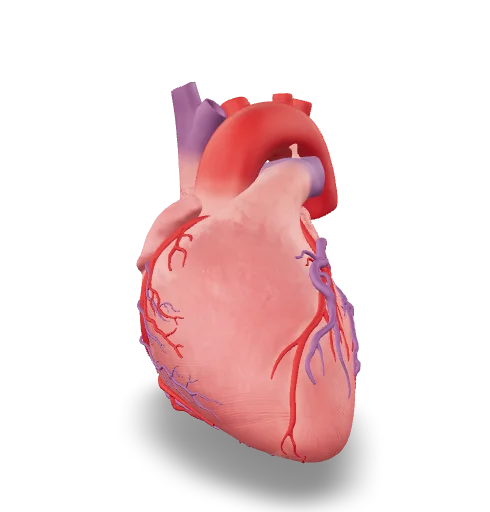
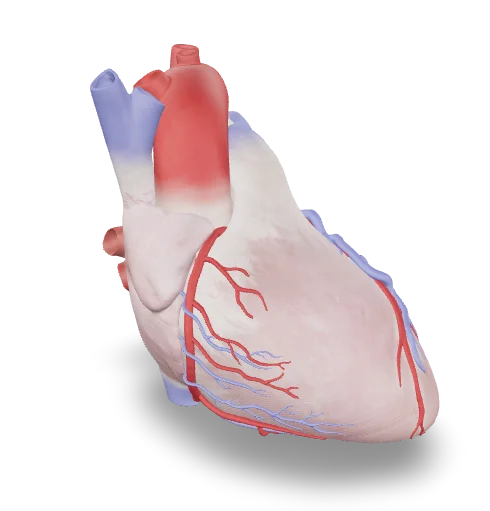
poster updated

diff --git a/lungs/index.html b/lungs/index.html
@@ -15,8 +15,7 @@
   <!-- <model-viewer> HTML element -->
 
   <model-viewer id="mv1" src="../glbs/anatomy_of_the_airways.glb" ar ar-modes="webxr scene-viewer quick-look"
-    camera-controls poster="poster.webp" shadow-intensity="1" camera-orbit="-4.926deg 84.38deg 0.537m"
-    field-of-view="30deg" camera-target="0.14m -497.4m 43.88m">
+    camera-controls poster="poster.webp" shadow-intensity="1"camera-target="0.14m -497.4m 43.95m" camera-orbit="-4.926deg 84.38deg 0.537m" field-of-view="30deg">
 
     <button class="Hotspot" data-audio="myAudio1" slot="hotspot-1" data-target="0.15m -497.32m 43.89m" data-orbit="40.41deg 71.58deg 0.3791m"
     data-surface="2 0 243 12099 12100 0.481 0.025 0.494" data-visibility-attribute="visible">

diff --git a/human_heart/index.html b/human_heart/index.html
@@ -15,8 +15,7 @@
   
   <!-- <model-viewer> HTML element -->
     <model-viewer id="mv1" src="../glbs/cardiac_anatomy_external_view_of_human_heart.glb" ar
-    ar-modes="webxr scene-viewer quick-look" camera-controls poster="poster.webp" shadow-intensity="1"
-    camera-orbit="-41.13deg 55.33deg 2.741m" field-of-view="24.45deg">
+    ar-modes="webxr scene-viewer quick-look" camera-controls poster="poster.webp" shadow-intensity="1" camera-target="0.1296m 0.03m 0.203m" camera-orbit="-41.13deg 55.33deg 2.995m" field-of-view="28.88deg">
 
 
     <button class="Hotspot" data-audio="myAudio1" slot="hotspot-1" data-orbit="-41.51deg 58.47deg 2.741m" field-of-view="24.45deg"

diff --git a/blood_vessel2/index.html b/blood_vessel2/index.html
@@ -14,8 +14,7 @@
 <body>
   <!-- <model-viewer> HTML element -->
   <model-viewer id="mv1" src="../glbs/blood-vessel-anatomy.glb" ar ar-modes="webxr scene-viewer quick-look"
-    camera-controls poster="poster.webp" shadow-intensity="1" camera-orbit="-41.13deg 55.33deg 31.29m"
-    field-of-view="28.54deg" camera-target="-0.66m -0.2579m 5.456m" field-of-view="24.45deg">
+    camera-controls poster="poster.webp" shadow-intensity="1"camera-target="-0.66m -0.2579m 5.456m" camera-orbit="-41.13deg 55.33deg 35.21m" field-of-view="30deg">
 
 
     <button class="Hotspot" data-audio="myAudio1" slot="hotspot-1"  data-orbit="-93.49deg 101.6deg 35.21m" field-of-view="30deg"
